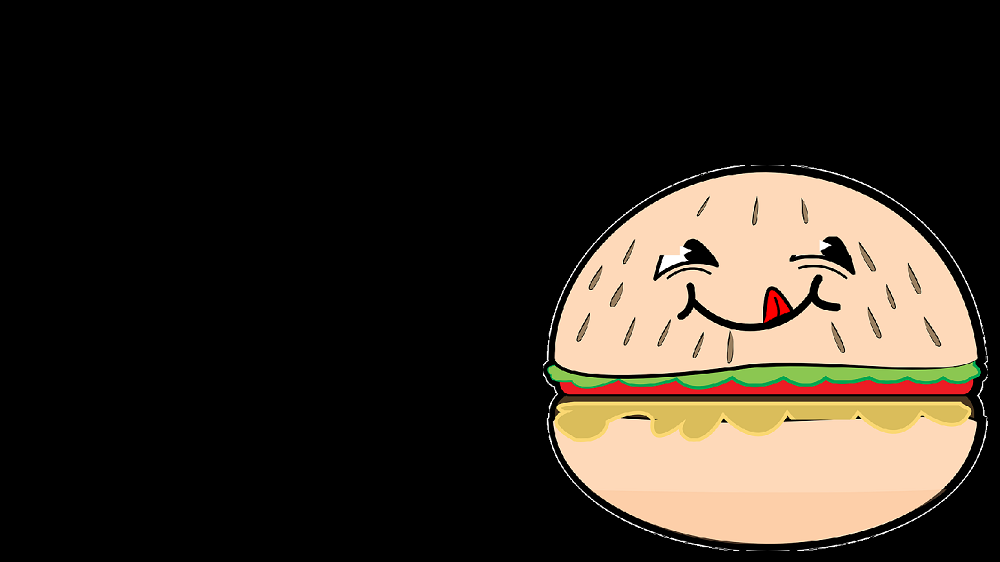
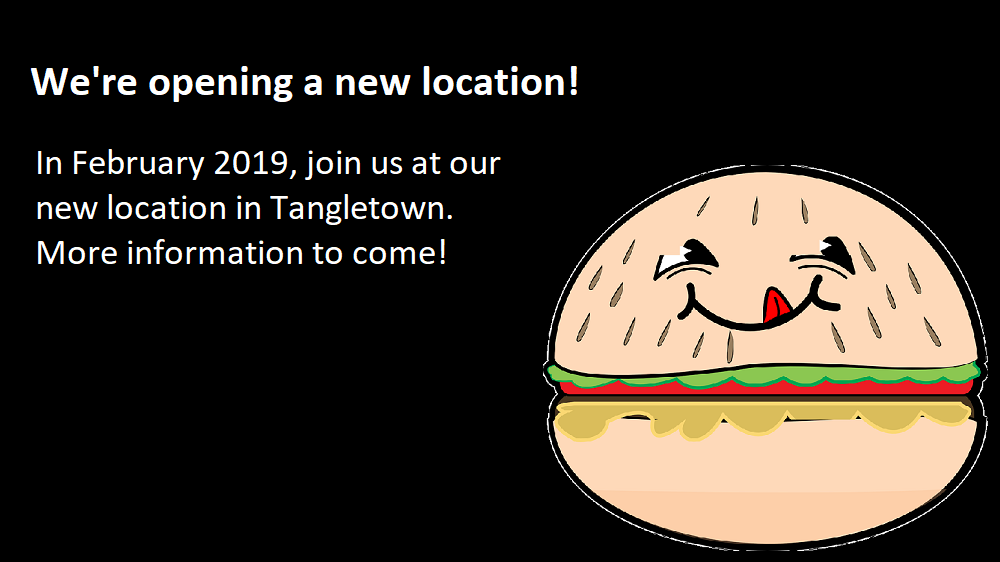
fix carousel, fix footer, add margins in a few places

Changed region(s): [[0.031, 0.2722, 0.496, 0.3932], [0.031, 0.121, 0.589, 0.1815], [0.031, 0.4235, 0.465, 0.484]]

diff --git a/Restaurant Site/home.html b/Restaurant Site/home.html
@@ -75,95 +75,33 @@
             </section>
         </div>
     </div>
-
-
-    <!--<div class="row"> &lt;!&ndash;Carousel contains 3 photos, text blurbs, and a navigation bar at the bottom of the carousel&ndash;&gt;-->
-        <!--<div id="carouselExampleSlidesOnly" class="carousel slide" data-ride="carousel">-->
-            <!--<div class="carousel-inner">-->
-                <!--<div class="carousel-item active">-->
-                    <!--<img class="d-block w-100" src="images/burgerHappy.png" alt="First slide">-->
-                <!--</div>-->
-                <!--&lt;!&ndash;<div class="carousel-caption d-none d-md-block">&ndash;&gt;-->
-                    <!--<h5>We're opening a new location!</h5>-->
-                    <!--<p id="ribbon">In February 2019, join us at our new location in Tangletown. More information-->
-                        <!--to-->
-                        <!--come!</p>-->
-                <!--</div>-->
-            <!--</div>-->
-
-            <!--<div class="carousel-item">-->
-                <!--<img class="d-block w-100" src="images/winterHolidays.jpg" alt="Second slide">-->
-                <!--&lt;!&ndash;<div class="carousel-caption d-none d-md-block">&ndash;&gt;-->
-                    <!--<h5>Our seasonal menu is in!</h5>-->
-                    <!--<p id="seasonalMenu">As the cold hits, come in for our newest menu items: Killer Frosties,-->
-                        <!--Savatar-ito (a delectable burrito), and much more!</p>-->
-                <!--</div>-->
-            <!--</div>-->
-
-            <!--<div class="carousel-item">-->
-                <!--<img class="d-block w-100" src="images/drink.jpg" alt="Third slide">-->
-                <!--&lt;!&ndash;<div class="carousel-caption d-none d-md-block">&ndash;&gt;-->
-                    <!--<h5>The Drink of the Month is ...</h5>-->
-                    <!--<p id="drinkPic">SG Special Brew!</p>-->
-                <!--</div>-->
-            <!--</div>-->
-        <!--</div>-->
-
-
-
-
-
-
-
-
-
-
+    <div class="row">
         <div class="col-md">
             <div id="carouselExampleIndicators" class="carousel slide" data-ride="carousel">
                 <div class="carousel-inner">
                     <div class="carousel-item active">
-                        <img class="d-block w-100" src="images/burgerHappy.png" alt="First slide">
-                        <div class="carousel-caption d-none d-md-block">
-                            <h5>We're opening a new location!</h5>
-                            <p id="ribbon">In February 2019, join us at our new location in Tangletown. More information
-                                to
-                                come!</p>
-                        </div>
+                        <img class="d-block w-100" src="images/burgerHappy1.png" alt="First slide">
                     </div>
+
                     <div class="carousel-item">
-                        <img class="d-block w-100" src="images/winterHolidays.jpg" alt="Second slide">
-                        <div class="carousel-caption d-none d-md-block">
-                            <h5>Our seasonal menu is in!</h5>
-                            <p id="seasonalMenu">As the cold hits, come in for our newest menu items: Killer Frosties,
-                                Savatar-ito (a delectable burrito), and much more!</p>
-                        </div>
+                        <img class="d-block w-100" src="images/winterHolidaysText.jpg" alt="Second slide">
                     </div>
+
                     <div class="carousel-item">
-                        <img class="d-block w-100" src="images/drink.jpg" alt="Third slide">
-                        <div class="carousel-caption d-none d-md-block">
-                            <h5>The Drink of the Month is ...</h5>
-                            <p id="drinkPic">SG Special Brew!</p>
-                        </div>
+                        <img class="d-block w-100" src="images/drinkText.jpg" alt="Third slide">
+
                     </div>
                 </div>
-                <a class="carousel-control-prev" href="#carouselExampleIndicators" role="button" data-slide="prev">
-                    <span class="carousel-control-prev-icon" aria-hidden="true"></span>
-                    <span class="sr-only">Previous</span>
-                </a>
-                <a class="carousel-control-next" href="#carouselExampleIndicators" role="button" data-slide="next">
-                    <span class="carousel-control-next-icon" aria-hidden="true"></span>
-                    <span class="sr-only">Next</span>
-                </a>
             </div>
         </div>
     </div>
+</div>
 
 
 <footer>
     <hr/>
     <p>117 Eat Street, Central City, MO, 55556</p>
     <p>612-456-7890</p>
-
 </footer>
 
 

diff --git a/Restaurant Site/styles/restaurantStyles.css b/Restaurant Site/styles/restaurantStyles.css
@@ -92,20 +92,20 @@ h5 {
 
 }
 
-#drinkPic {
-	color:yellow;
-	font-size: 2.5em;
-}
+/*#drinkPic {*/
+	/*color:yellow;*/
+	/*font-size: 2.5em;*/
+/*}*/
 
-#ribbon {
-	color:#a51818;
-	font-size: 1.5em;
+/*#ribbon {*/
+	/*color:#a51818;*/
+	/*font-size: 1.5em;*/
 
-}
+/*}*/
 
-#seasonalMenu {
-	font-size: 1.5em;
-}
+/*#seasonalMenu {*/
+	/*font-size: 1.5em;*/
+/*}*/
 
 #welcomeGreeting {
 	text-align: center;
